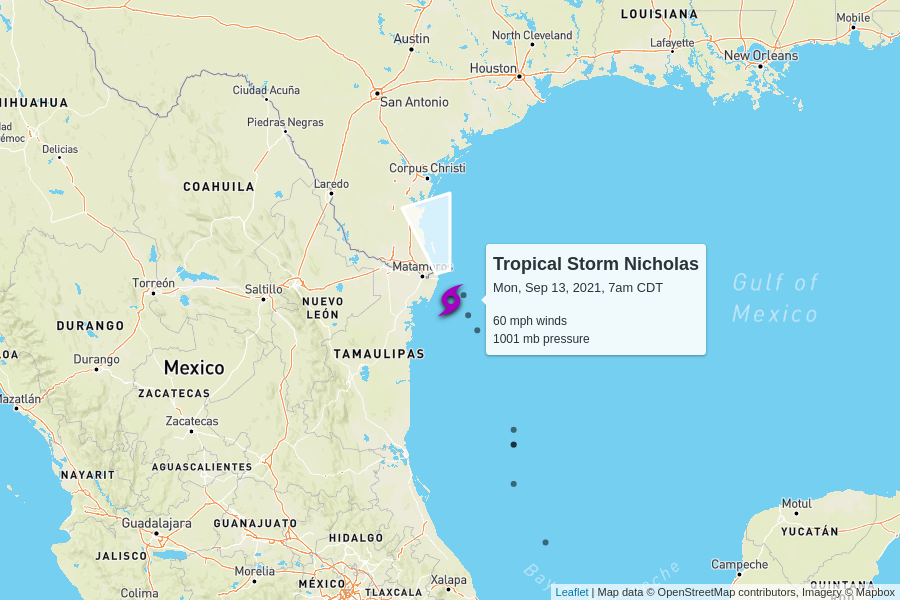
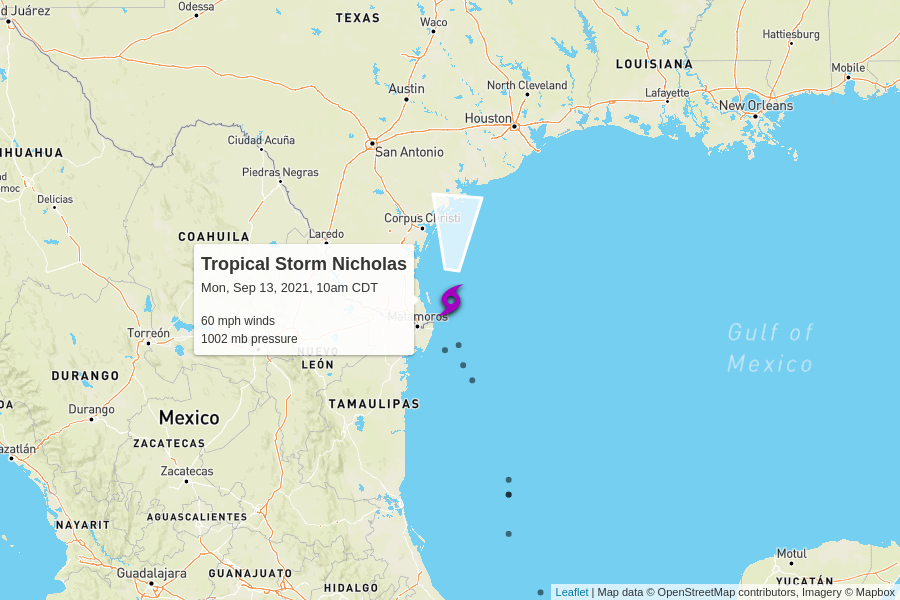
automatic update

diff --git a/docs/index.html b/docs/index.html
@@ -100,7 +100,7 @@
         <td colspan="6" class="storm category-0" >
           <h2>
             Tropical Storm Nicholas
-            <p class="updated">last updated <span data-time>2021-09-13T12:00:00.000Z</span></p>
+            <p class="updated">last updated <span data-time>2021-09-13T15:00:00.000Z</span></p>
           </h2>
         </td>
       </tr>
@@ -116,11 +116,11 @@
       <tr>
         <td class="spacer"></td>
         <td>60 mph</td>
-        <td>1001 mb</td>
+        <td>1002 mb</td>
         <td>
-          5 mph to the north-northwest
+          12 mph to the north
           <br/>
-          <span style="display: inline-block; font-size: 1.5em; transform: rotate(345deg);">↑</span>
+          <span style="display: inline-block; font-size: 1.5em; transform: rotate(5deg);">↑</span>
         </td>
         <td><a href="https://raw.githubusercontent.com/mgwalker/atlantic-hurricanes/main/data/csv/AL142021.csv">AL142021.csv</a></td>
         <td><a href="https://www.nhc.noaa.gov/archive/2021/NICHOLAS.shtml?">NHC advisories</a></td>
